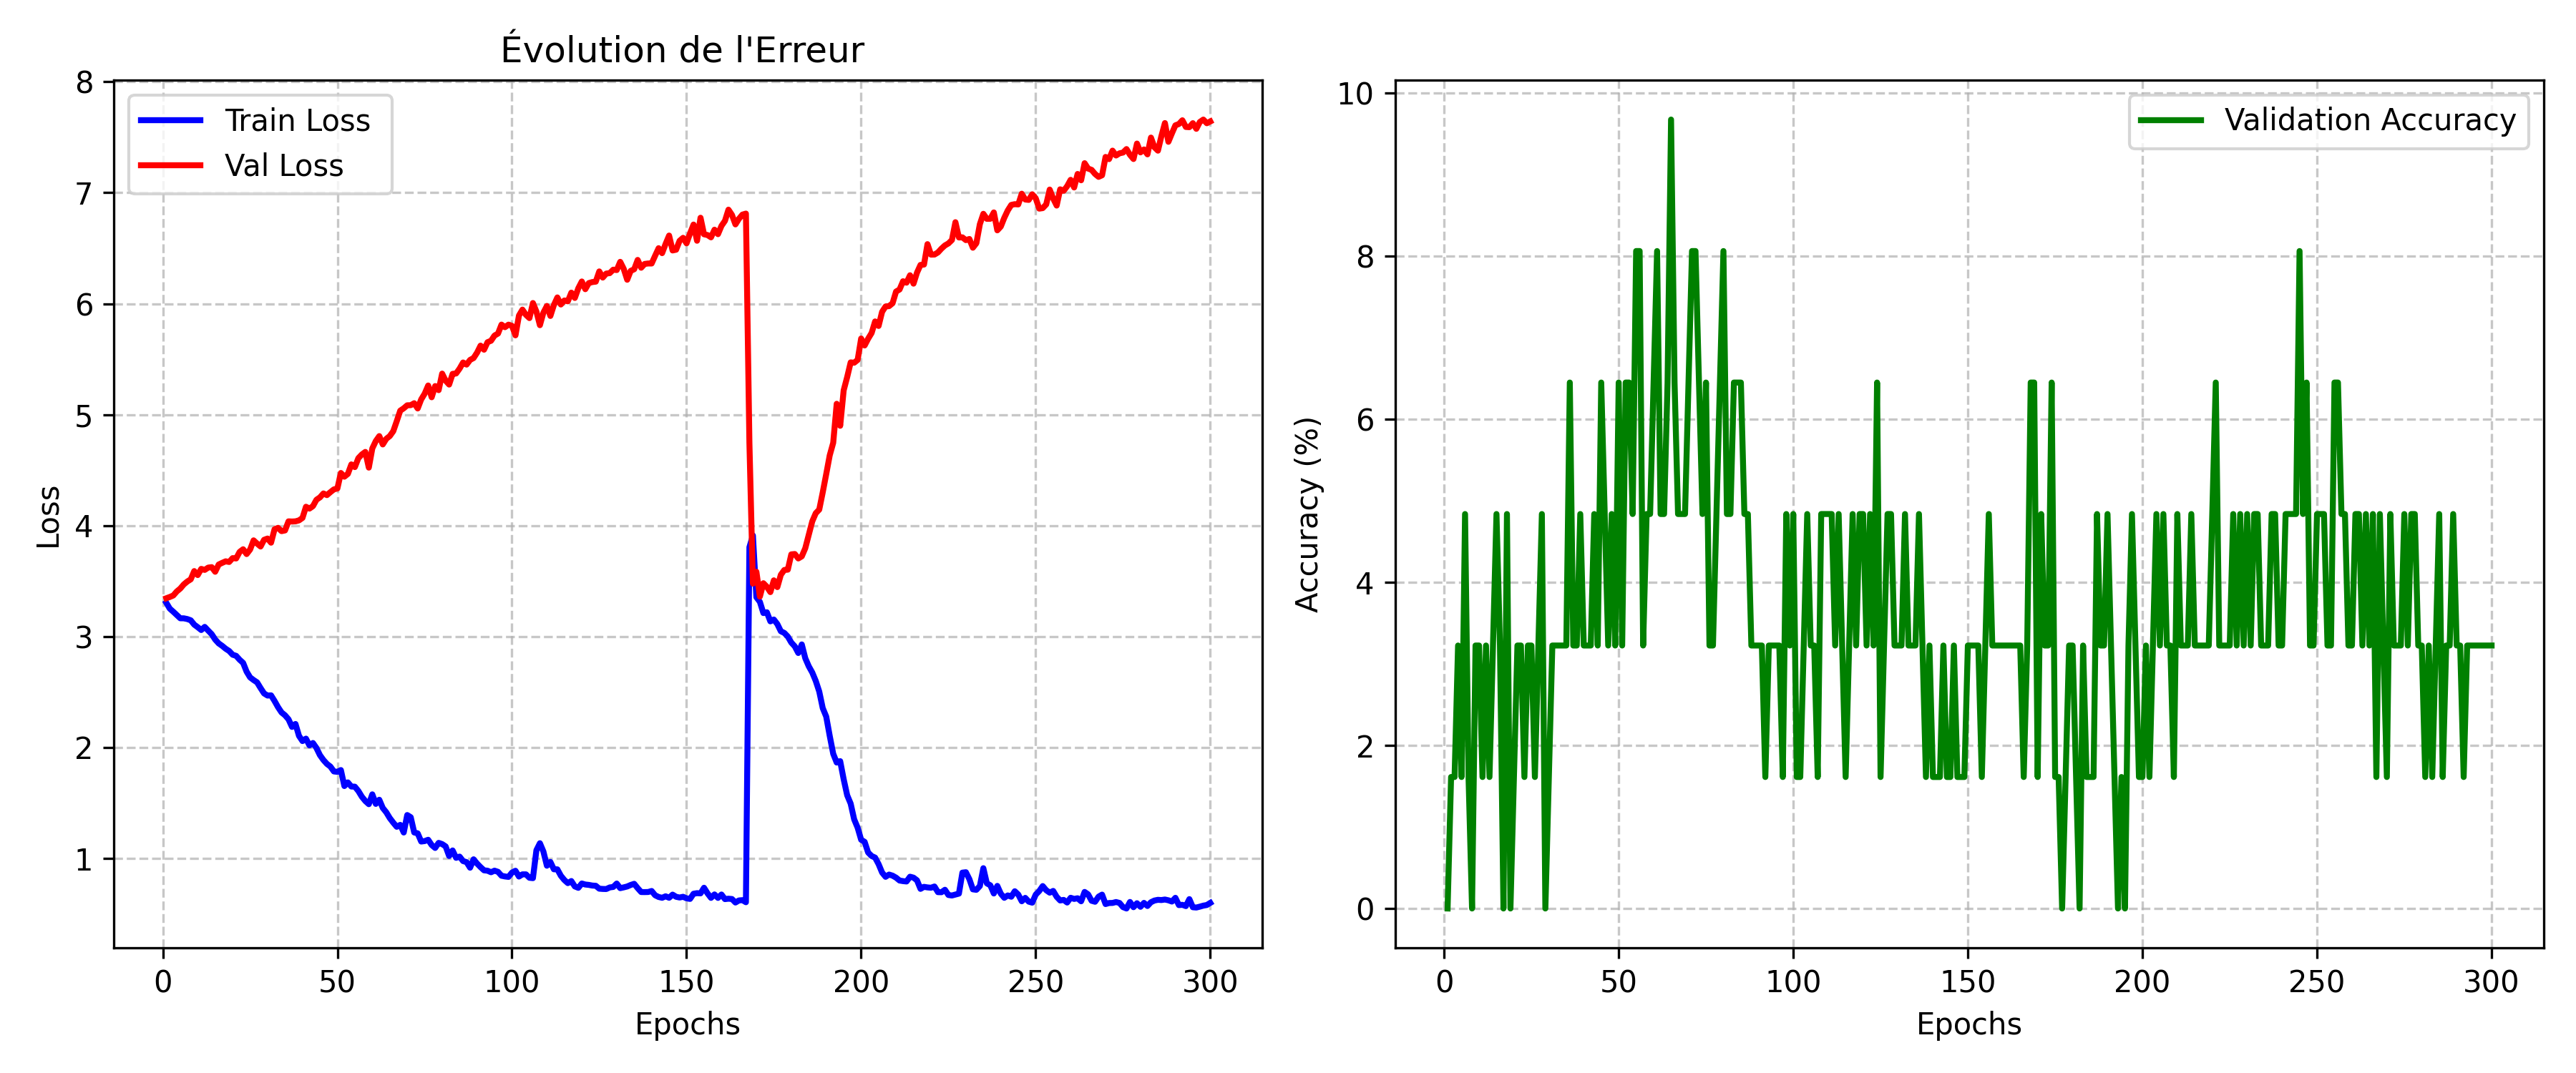
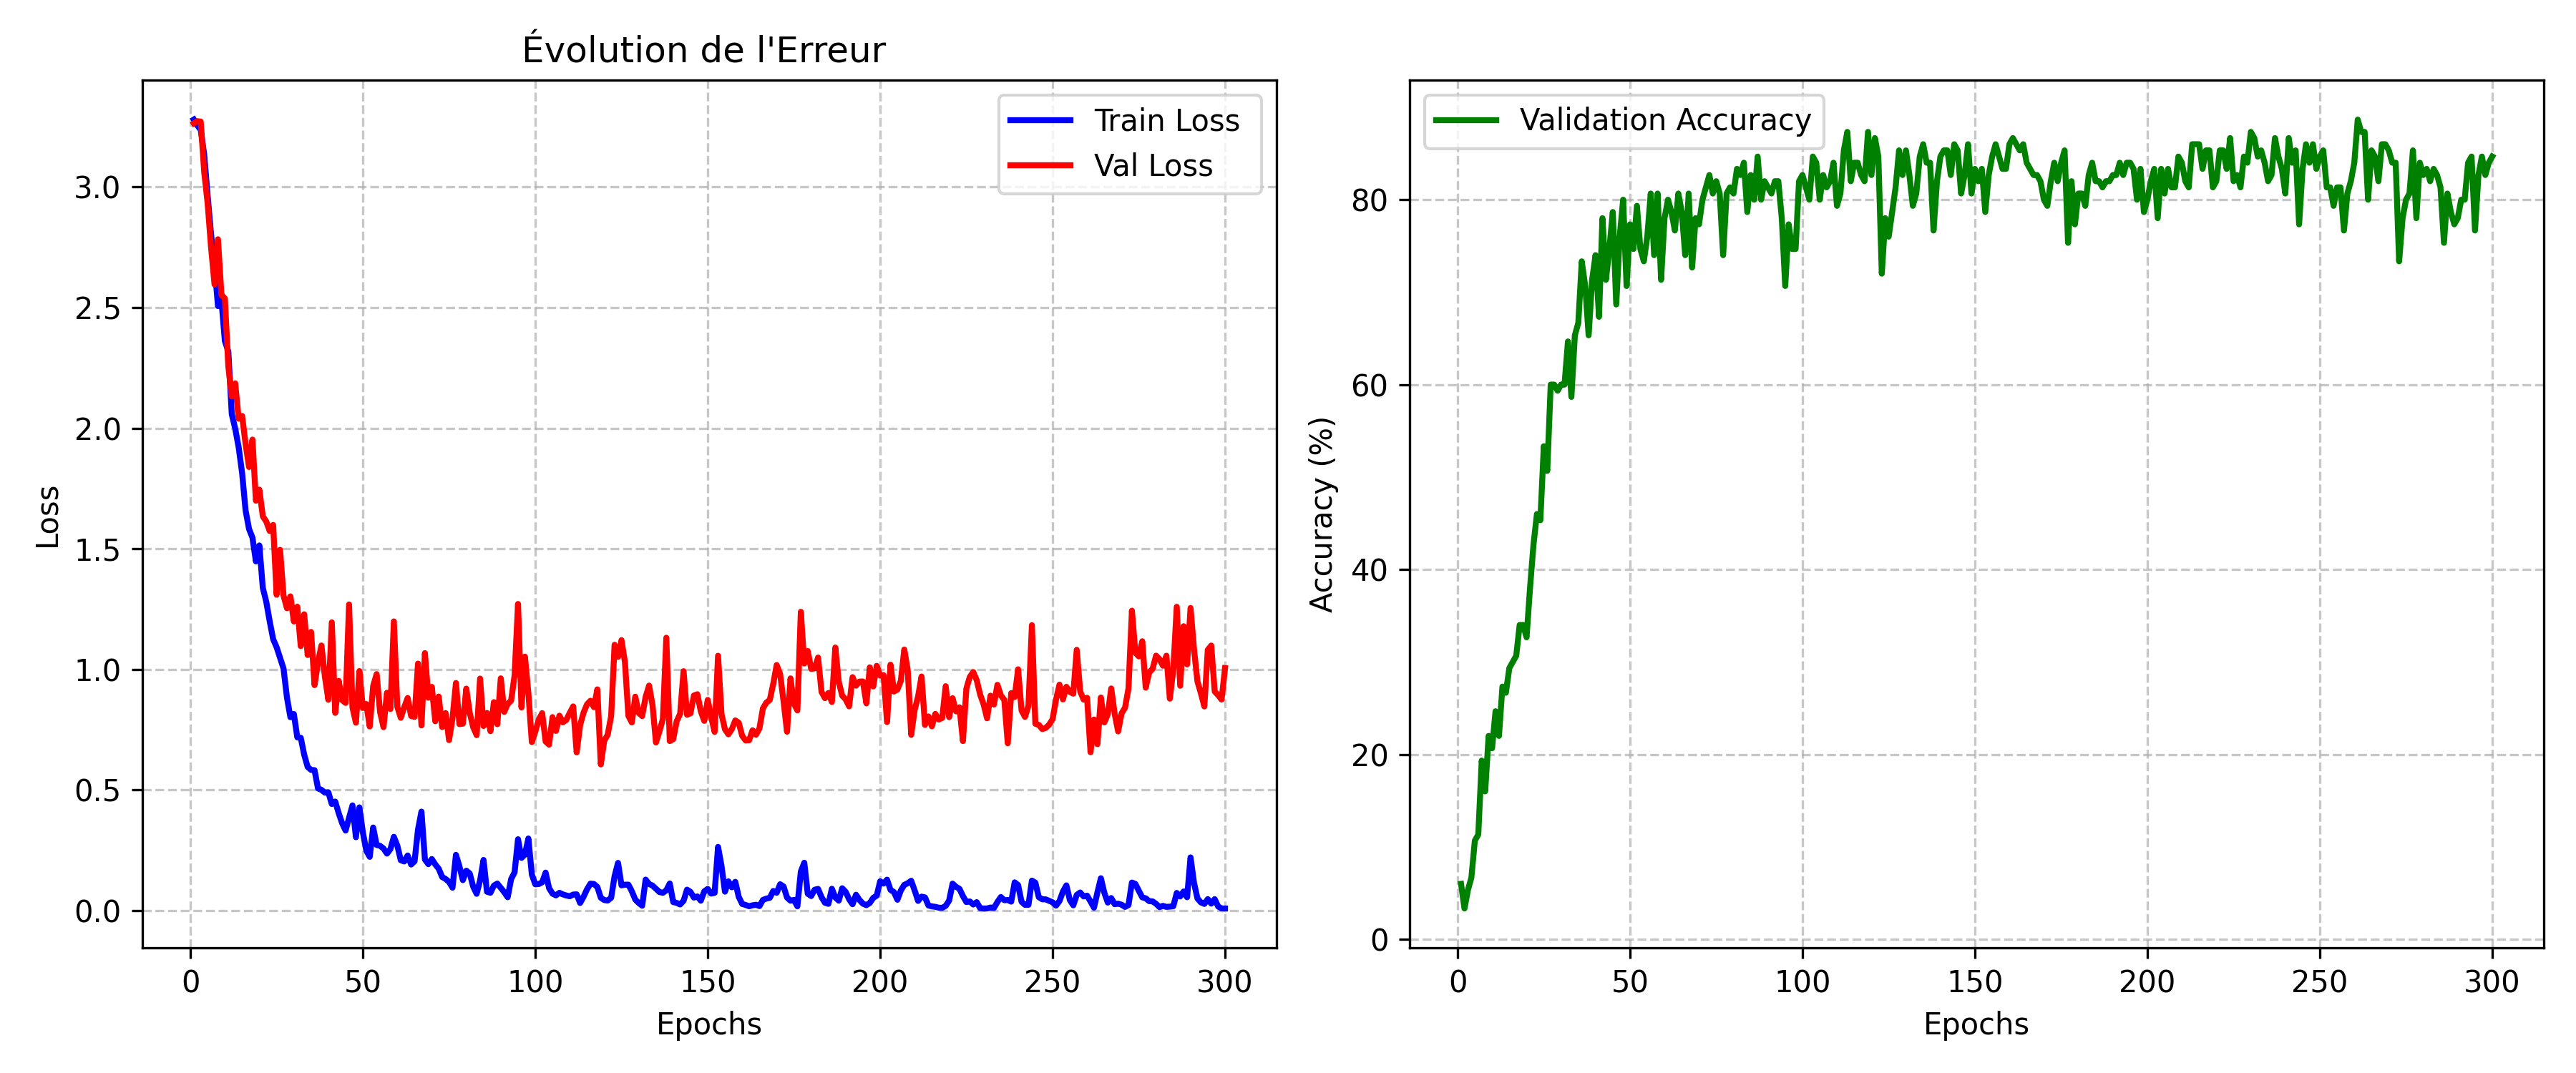
Amélioration Ocarina: Ajout normalisation spatiale et training scripts

diff --git a/Modèle_Ocarina/Dataset.py b/Modèle_Ocarina/Dataset.py
@@ -2,9 +2,11 @@ import os
 import json
 import torch
 from torch.utils.data import Dataset, DataLoader
+import re
+
 
 class SignLanguageDataset(Dataset):
-    def __init__(self, data_dir, max_frames=60, num_features=42, augment=True):
+    def __init__(self, data_dir, max_frames=50, num_features=42, augment=True):
         self.data_dir = data_dir
         self.max_frames = max_frames
         self.num_features = num_features
@@ -14,20 +16,34 @@ class SignLanguageDataset(Dataset):
         #liste des fichiers
         all_files = [f for f in os.listdir(data_dir) if f.endswith('.json')]
         
-        #extraction et nettoyage : "A2.json" -> "A2" -> "A"
-        extracted_labels = [
-            f.split('_')[-1].replace('.json', '').rstrip('0123456789') 
-            for f in all_files
-        ]
+        extracted_labels = []
+        
+        #détecteur magique
+        for f in all_files:
+            # Cette règle cherche une lettre unique située :
+            # - Soit juste après "prise" + un chiffre (ex: prise1F)
+            # - Soit juste après "corrigé" (ex: corrigéF2)
+            # - Soit juste après un tiret du bas (ex: _A2.json)
+            match = re.search(r'(?:prise\d+|corrigé|_)([A-Za-z])(?:[0-9_.]|$)', f, re.IGNORECASE)
+            
+            if match:
+                extracted_labels.append(match.group(1).upper())
+            else:
+                # Si un de tes potes nomme son fichier "video_de_louna_salut.json", 
+                # ça n'explosera pas, ça te préviendra juste dans la console.
+                print(f"⚠️ ATTENTION : Impossible de trouver la lettre dans {f}")
+                extracted_labels.append("ERREUR")
         
         #création des classes
-        self.classes = sorted(list(set(extracted_labels)))
+        valid_labels = [l for l in extracted_labels if l != "ERREUR"]
+        self.classes = sorted(list(set(valid_labels)))
         self.class_to_idx = {cls_name: idx for idx, cls_name in enumerate(self.classes)}
         
-        # assignation
+        #ssignation
         for file_name, label in zip(all_files, extracted_labels):
-            file_path = os.path.join(data_dir, file_name)
-            self.samples.append((file_path, self.class_to_idx[label]))
+            if label != "ERREUR":
+                file_path = os.path.join(data_dir, file_name)
+                self.samples.append((file_path, self.class_to_idx[label]))
 
     def __len__(self):
         return len(self.samples)
@@ -59,7 +75,22 @@ class SignLanguageDataset(Dataset):
                 
         #conversion tensor
         tensor_frames = torch.tensor(frames_data, dtype=torch.float32)
-        
+
+        # tensor_frames a une forme : [nb_frames, 42]
+        #pn sépare les X (indices pairs 0, 2, 4...) et les Y (indices impairs 1, 3, 5...)
+        for i in range(tensor_frames.shape[0]):
+            wrist_x = tensor_frames[i, 0].item()
+            wrist_y = tensor_frames[i, 1].item()
+            
+            #si le poignet n'est pas à 0
+            if wrist_x != 0 and wrist_y != 0:
+                #soustrait wrist_x à toutes les colonnes paires (les X)
+                tensor_frames[i, 0::2] = tensor_frames[i, 0::2] - wrist_x
+                #soustrait wrist_y à toutes les colonnes impaires (les Y)
+                tensor_frames[i, 1::2] = tensor_frames[i, 1::2] - wrist_y
+
+
+
         #(Padding / Truncating)
         seq_len = tensor_frames.shape[0]
         

diff --git a/Modèle_Ocarina/Train.py b/Modèle_Ocarina/Train.py
@@ -5,12 +5,14 @@ from torch.utils.data import DataLoader, random_split
 from Ocarina_GRU import SignLanguageGRU 
 from Dataset import SignLanguageDataset
 import matplotlib.pyplot as plt
+import os 
 
 def main():
     #hyperparamètres
-    DATA_DIR = "./dataset/"
+    BASE_DIR = os.path.dirname(os.path.abspath(__file__))
+    DATA_DIR = os.path.join(BASE_DIR, "dataset")
     BATCH_SIZE = 16
-    MAX_FRAMES = 60
+    MAX_FRAMES = 45
     NUM_CLASSES = 26
     EPOCHS = 300
     LEARNING_RATE = 0.001